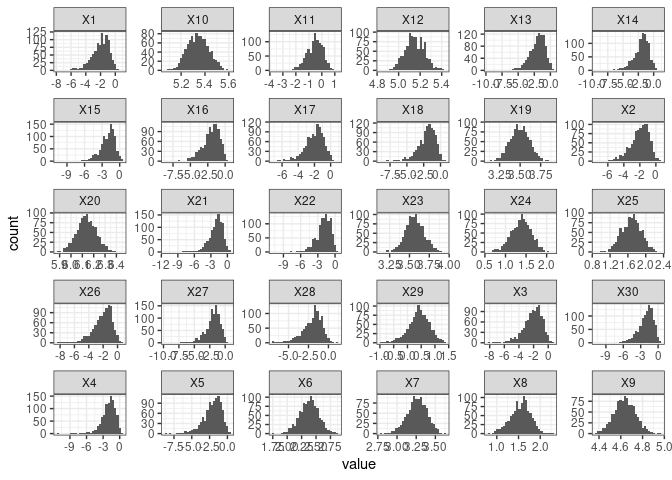
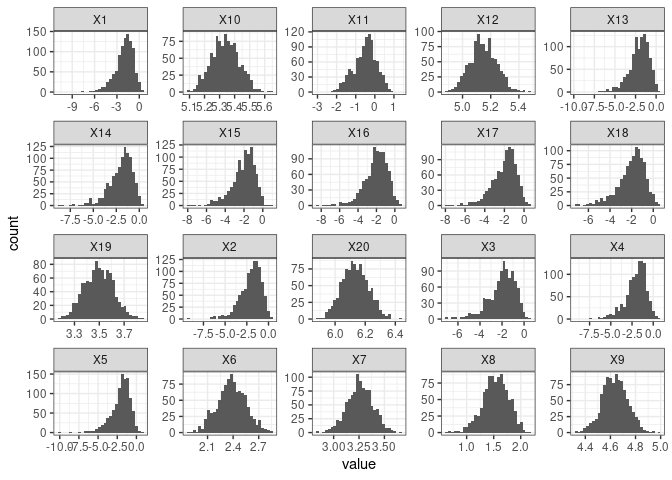
minor cleanup

diff --git a/README.md b/README.md
@@ -19,32 +19,11 @@ data
     ## [136] 3642    0
 
 ``` r
-b = log(sapply(data, FUN = function(x){sampleBetaBinom(samples = 1000, k = x, n = sum(data))}, simplify = T)) - sampleGeomMeam(samples = 1000, count_sample = data)
-
-
+#To do: estimate parameters of geometric mean distribution. 
 hist(sampleGeomMeam(samples = 10000, count_sample = data))
 ```
 
 ![](README_files/figure-gfm/distributions-1.png)<!-- -->
-
-``` r
-b %>%
-  data.frame() %>%
-  mutate(sample = as.character(1:1000)) %>%
-  pivot_longer(!sample) %>%
- 
-  filter(name %in% paste0("X", 1:30)) %>%
-  ggplot() +
-  aes(x = value) +
- 
-  geom_histogram() +
-  facet_wrap(~name, scales = "free") +
-  theme_bw()
-```
-
-    ## `stat_bin()` using `bins = 30`. Pick better value with `binwidth`.
-
-![](README_files/figure-gfm/distributions-2.png)<!-- -->
 
 ``` r
 #Notice that the zero-count features such as X13 have a much higher spread than high rollers like X7
@@ -53,7 +32,7 @@ sampleCLR(1000, data) %>%
   mutate(sample = as.character(1:1000)) %>%
   pivot_longer(!sample) %>%
   
-  filter(name %in% paste0("X", 1:30)) %>%
+  filter(name %in% paste0("X", 1:20)) %>%
   ggplot() +
   aes(x = value) +
   
@@ -64,4 +43,4 @@ sampleCLR(1000, data) %>%
 
     ## `stat_bin()` using `bins = 30`. Pick better value with `binwidth`.
 
-![](README_files/figure-gfm/distributions-3.png)<!-- -->
+![](README_files/figure-gfm/distributions-2.png)<!-- -->
